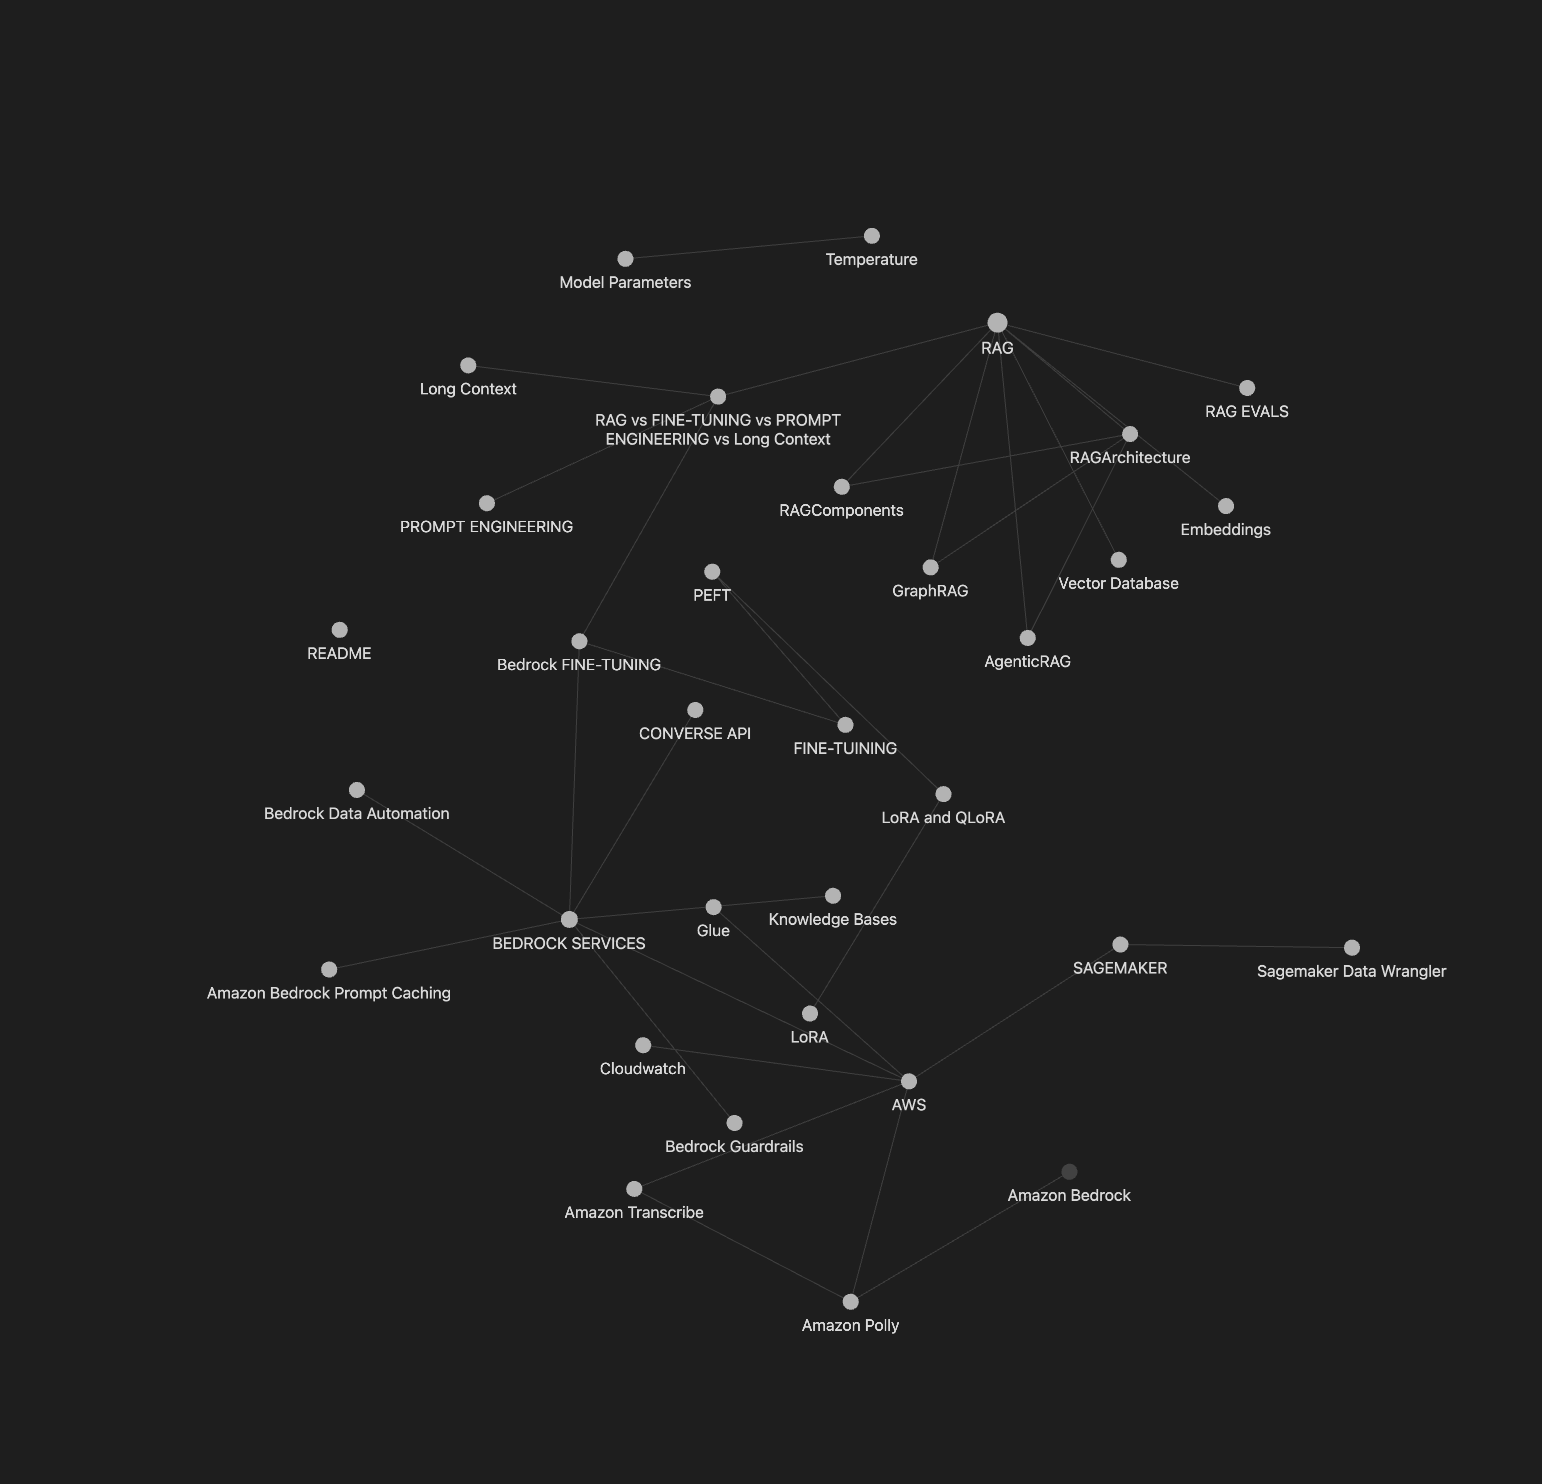
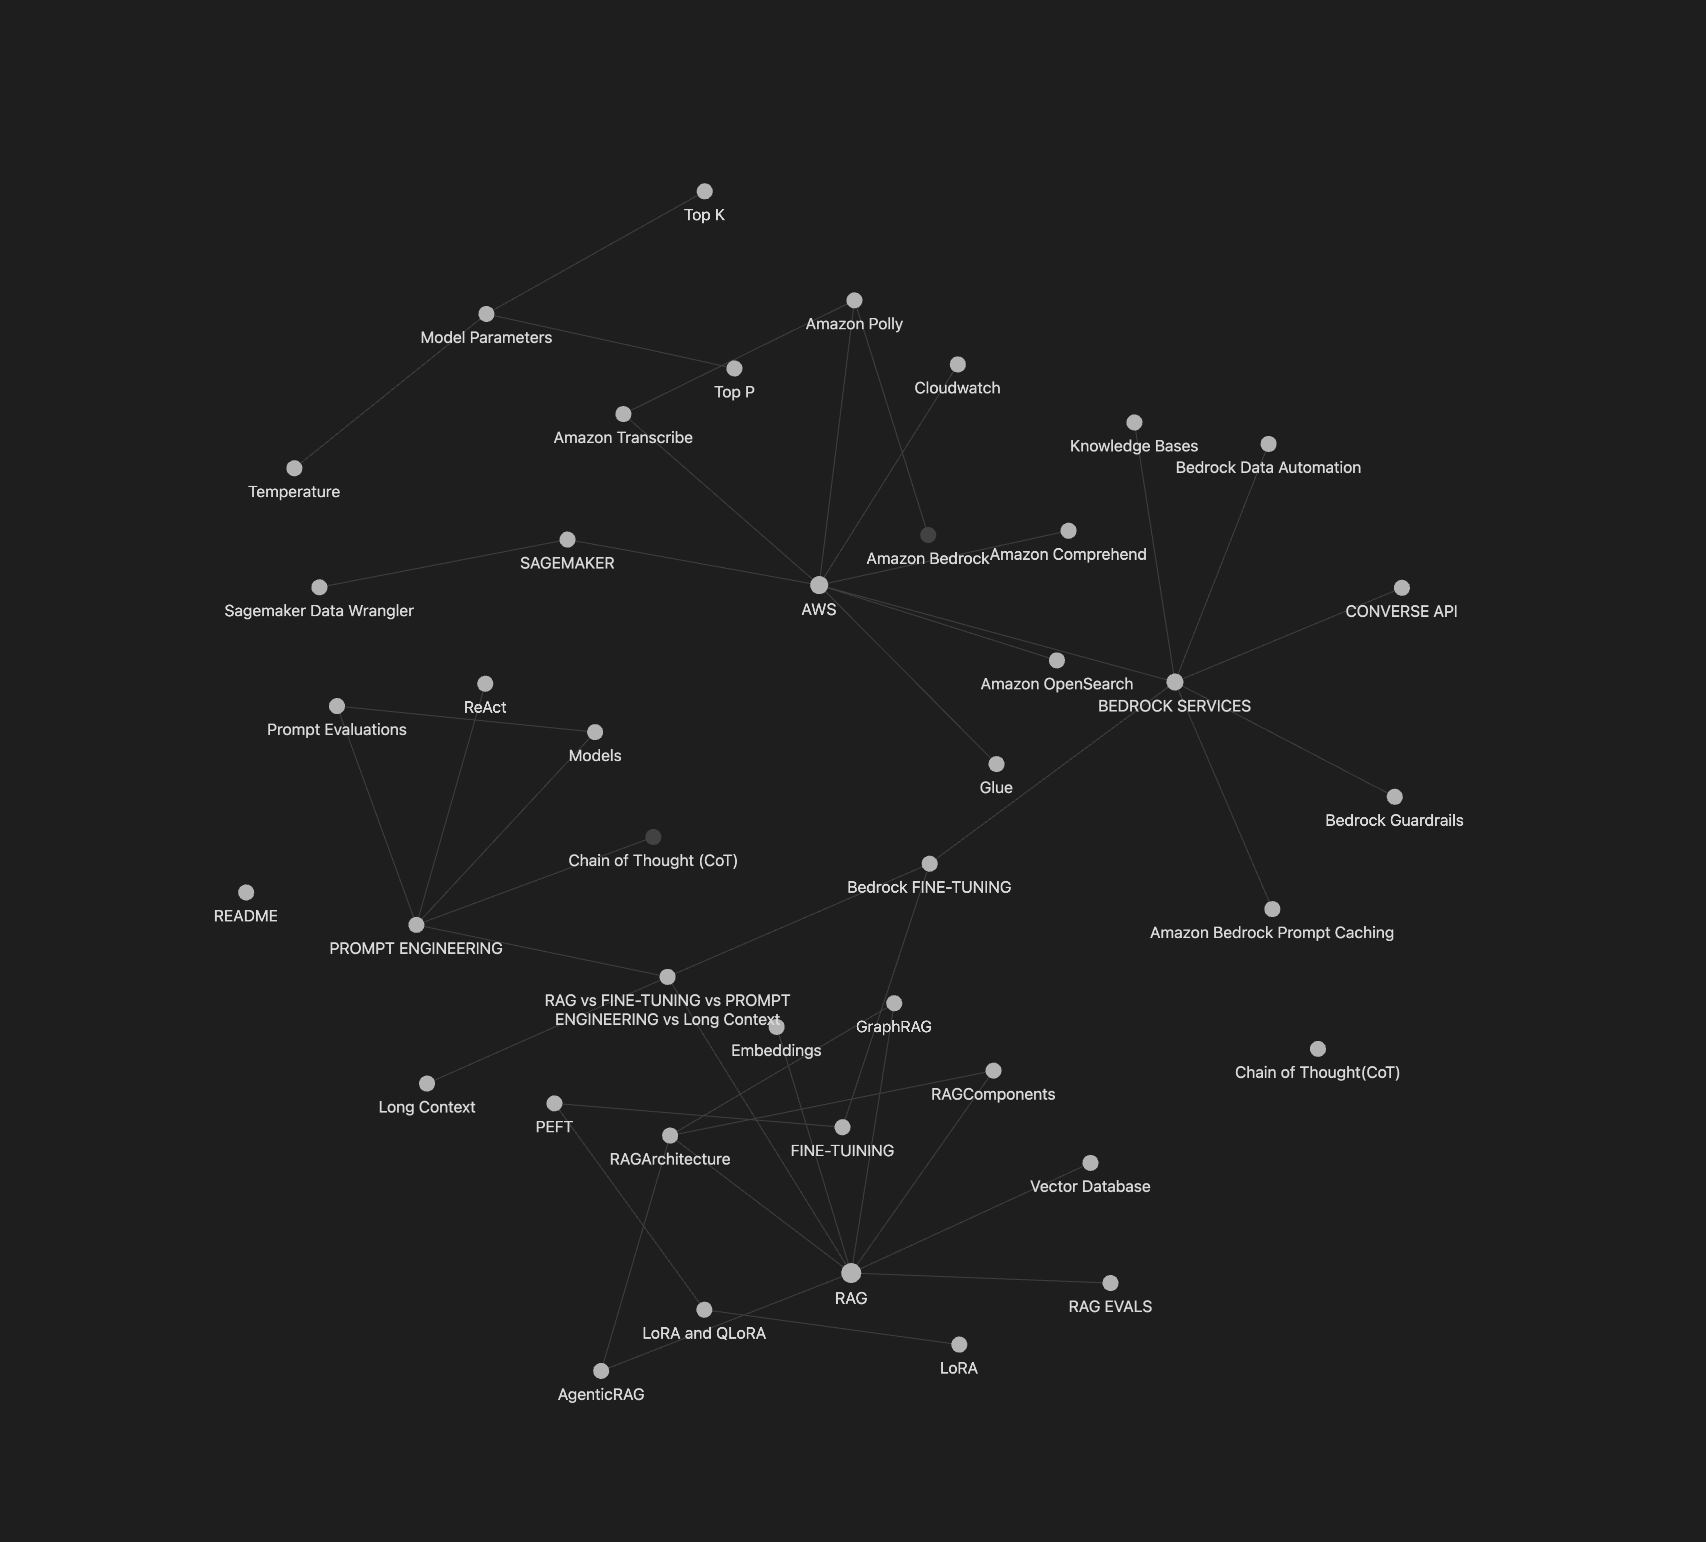
Update README; add CoT note with diagram, update graph

diff --git a/AI-CONCEPTS/Chain of Thought(CoT).md b/AI-CONCEPTS/Chain of Thought(CoT).md
@@ -1,0 +1,18 @@
+![CoT](../SYSTEMDESIGN/CoT.png)
+
+Chain-of-Thought (CoT) is a prompting strategy that encourages the LLM to generate a sequence of intermediate reasoning steps before providing the final answer. Instead of just asking for the answer, you guide the model to think in steps.
+
+**Types of CoT:**
+
+- **Zero-shot CoT:** The simplest form. Include instructions like `Let's think step by step` in your prompt.
+- **Few-shot CoT:** More complex. Provide examples in the prompt showing the problem, the step-by-step reasoning, and the final answer. For instance, if you want the model to evaluate a student's math solution, instead of just asking if it's correct, you can tell the model:
+
+`Is ‘3 + 1 \= 4’ correct? Work out your own solution step by step then compare it to mine.`
+
+- This explicit instruction to perform intermediate steps helps the model reason and often leads to a more accurate assessment.
+
+**Benefits of Chain-of-Thought Prompting:**
+
+- **Improved Performance:** CoT significantly boosts LLM effectiveness on reasoning tasks (arithmetic, commonsense, symbolic reasoning), reducing errors and hallucinations. By breaking down the problem, the model is less likely to make mistakes.
+- **Interpretability & Trust:** It makes the LLM's reasoning process transparent. You can see the steps the model took, which is invaluable for understanding how it solved the problem, important for debugging and building trust. It moves the LLM's process from a "static black box" to an inspectable one.
+- Various advanced CoT variants exist, such as Self-Consistency Prompting, which samples multiple CoT paths and chooses the most frequent answer

diff --git a/README.md b/README.md
@@ -22,8 +22,12 @@ A personal knowledge base covering AI and Cloud concepts, built with Obsidian.
 - **LoRA** — Low-Rank Adaptation
 - **LoRA & QLoRA** — Low-Rank Adaptation and Quantized LoRA
 - **Prompt Engineering** — Prompting strategies
+- **Chain of Thought (CoT)** — Step-by-step reasoning prompting strategy
+- **ReAct** — Reasoning and Acting prompting framework
 - **RAG vs Fine-Tuning vs Prompt Engineering vs Long Context** — Comparison guide
 - **Model Parameters** — Key model parameters and their effects
+- **Top K** — Top-K sampling for controlling output diversity
+- **Top P** — Nucleus sampling for controlling output randomness
 - **Temperature** — Temperature and its impact on model output
 - **Models** — Overview of AI models and their capabilities
 - **Prompt Evaluations** — Evaluating and scoring prompt quality
@@ -50,6 +54,7 @@ A personal knowledge base covering AI and Cloud concepts, built with Obsidian.
 - **RAG Components** — Components, embedding, retrieval & re-ranking, pipeline algorithms
 - **Model Parameters** — Temperature ranges and parameter visualizations
 - **Prompt Evaluations** — Prompt evaluation diagrams
+- **Chain of Thought (CoT)** — CoT prompting diagram
 
 ## Usage
 
